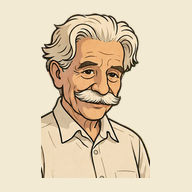
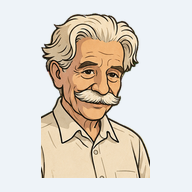
Design der Schul-Website: Blau-Palette, Systemschrift, Schullogo; keine Google Fonts mehr
Claude-Session: https://claude.ai/code/session_01DmqAZNMp6YNdaa44fsZYg1

diff --git a/public/style.css b/public/style.css
@@ -1,42 +1,40 @@
-/* Farben aus der Albert-Illustration: Hemd-Creme, Hosen-Braun, Tusche-Linien, Hautton */
 :root{
-  --bg:#f7f1e3; --card:#fffaf0; --ink:#2a2118; --mute:#6d5f4d;
-  --line:#2a2118; --acc:#6f573d; --on-acc:#fffaf0; --acc2:#eadfc3; --skin:#e0a674;
-  --shadow:#2a2118; --danger:#a63a22; --mark:#f3cf7a;
-  --font:'Fredoka','Nunito','Segoe UI',system-ui,-apple-system,sans-serif;
+  /* Farben der Schul-Website (Kadence-Palette): Blau #1f4e79, Hellblau #4f7ea8, Text #1f2933, Hintergrund #fafaf8 */
+  --bg:#fafaf8; --card:#ffffff; --ink:#1f2933; --mute:#5b6770;
+  --line:#d9e2ec; --acc:#1f4e79; --on-acc:#ffffff; --acc2:#eef3f8; --skin:#4f7ea8;
+  --shadow:rgba(31,78,121,.14); --danger:#b82105; --mark:#fdd79a; --amber:#f5a524;
+  --logo-filter:none; --head:#1f4e79;
+  --font:-apple-system,BlinkMacSystemFont,"Segoe UI",Roboto,Oxygen-Sans,Ubuntu,Cantarell,"Helvetica Neue",sans-serif;
 }
 @media (prefers-color-scheme:dark){:root{
-  --bg:#1e1913; --card:#2a2218; --ink:#f2ead3; --mute:#b9a98f;
-  --line:#6b5a44; --acc:#d9b98a; --on-acc:#2a2118; --acc2:#3a3022; --skin:#d29a66;
-  --shadow:#0d0a07; --danger:#f0a48f; --mark:#7a5f1f;
+  --bg:#0f1a24; --card:#172531; --ink:#e6edf3; --mute:#9fb0c0;
+  --line:#2a3d4f; --acc:#4f7ea8; --on-acc:#ffffff; --acc2:#1c2f40; --skin:#7fb0dc;
+  --shadow:rgba(0,0,0,.4); --danger:#ff9b85; --mark:#7a5a12; --logo-filter:brightness(0) invert(1); --head:#9cc3e8;
 }}
 *{box-sizing:border-box}
 body{margin:0;background:var(--bg);color:var(--ink);font:16px/1.45 var(--font)}
 input,textarea,button{font:inherit;color:inherit}
 
 /* Kopf */
-header{position:sticky;top:0;z-index:5;display:flex;gap:.7rem;align-items:center;padding:.55rem 1rem;background:var(--acc);color:var(--on-acc);border-bottom:3px solid var(--ink);flex-wrap:wrap}
-@media (prefers-color-scheme:dark){header{border-bottom-color:var(--line)}}
+header{position:sticky;top:0;z-index:5;display:flex;gap:.9rem;align-items:center;padding:.5rem 1rem;background:var(--card);border-bottom:1px solid var(--line);border-top:4px solid var(--acc);flex-wrap:wrap}
 .brand{display:flex;align-items:center;gap:.6rem;text-decoration:none;color:inherit}
-.brand img{width:46px;height:46px;border-radius:50%;background:var(--bg);border:2px solid var(--ink);object-fit:cover;object-position:50% 12%}
-.brand b{display:block;font-size:1.2rem;line-height:1.1}
-.brand small{display:block;font-size:.72rem;opacity:.85}
-#q{flex:1;min-width:180px;background:var(--card);color:var(--ink)}
-header button.primary{background:var(--card);color:var(--ink);border-color:var(--ink)}
+.brand img{height:54px;width:auto;filter:var(--logo-filter)}
+.brand b{display:block;font-size:1.15rem;line-height:1.1;font-style:italic;font-weight:600;color:var(--head)}
+.brand small{display:block;font-size:.72rem;color:var(--mute)}
+#q{flex:1;min-width:180px;background:var(--bg)}
 
-input,textarea{width:100%;padding:.55rem .75rem;border:2px solid var(--line);border-radius:12px;background:var(--card)}
+input,textarea{width:100%;padding:.55rem .75rem;border:1px solid var(--line);border-radius:10px;background:var(--card)}
 input:focus,textarea:focus,button:focus-visible,a:focus-visible{outline:3px solid var(--skin);outline-offset:1px}
-button{padding:.5rem .95rem;border:2px solid var(--line);border-radius:12px;background:var(--card);cursor:pointer;font-weight:500}
+button{padding:.5rem .95rem;border:1px solid var(--line);border-radius:10px;background:var(--card);cursor:pointer;font-weight:500}
 button:active{transform:translateY(1px)}
-button.primary{background:var(--acc);border-color:var(--ink);color:var(--on-acc);font-weight:600;box-shadow:2px 2px 0 var(--shadow)}
+button.primary{background:var(--acc);border-color:var(--acc);color:var(--on-acc);font-weight:600}
 button.danger{color:var(--danger);margin-right:auto}
-button.link{border:0;background:none;color:var(--acc);padding:.2rem .4rem;text-decoration:underline;text-underline-offset:3px}
+button.link{border:0;background:none;color:var(--head);padding:.2rem .4rem;text-decoration:underline;text-underline-offset:3px}
 
 /* Begrüßung mit Albert */
-.hero{position:relative;overflow:hidden;max-width:1100px;margin:1rem auto 0;border:2px solid var(--ink);border-radius:20px;background:var(--acc2);box-shadow:4px 4px 0 var(--shadow);min-height:130px;display:flex;align-items:center}
-@media (prefers-color-scheme:dark){.hero{border-color:var(--line)}}
+.hero{position:relative;overflow:hidden;max-width:1100px;margin:1rem auto 0;border:1px solid var(--line);border-left:5px solid var(--amber);border-radius:16px;background:var(--acc2);min-height:130px;display:flex;align-items:center}
 .hero-text{padding:1.1rem 1.3rem;max-width:calc(100% - 150px)}
-.hero h2{margin:0 0 .2rem;font-size:1.35rem}
+.hero h2{margin:0 0 .2rem;font-size:1.35rem;color:var(--head);font-style:italic}
 .hero p{margin:0;color:var(--mute)}
 .hero img{position:absolute;right:.8rem;bottom:-70px;height:200px;width:auto;pointer-events:none}
 @media (max-width:520px){.hero img{height:150px;bottom:-45px;right:0}.hero-text{max-width:calc(100% - 100px)}.hero h2{font-size:1.15rem}}
@@ -46,27 +44,27 @@ main{max-width:1100px;margin:0 auto;padding:1rem}
 .filters{display:grid;gap:.55rem;margin-bottom:1rem}
 .lbl{display:inline-block;min-width:3.8rem;color:var(--mute);font-size:.85rem}
 .chips{display:inline-flex;flex-wrap:wrap;gap:.4rem;vertical-align:middle}
-.chip{padding:.2rem .75rem;border-radius:99px;background:var(--card);border:2px solid var(--line);font-size:.9rem}
-.chip[aria-pressed=true]{background:var(--acc);color:var(--on-acc);border-color:var(--ink);box-shadow:2px 2px 0 var(--shadow)}
+.chip{padding:.2rem .75rem;border-radius:99px;background:var(--card);border:1px solid var(--line);font-size:.9rem}
+.chip[aria-pressed=true]{background:var(--acc);color:var(--on-acc);border-color:var(--acc)}
 .bar{display:flex;align-items:center;gap:.5rem;color:var(--mute);font-size:.9rem}
 .bar #count{margin-right:auto}
 
 .grid{display:grid;grid-template-columns:repeat(auto-fill,minmax(270px,1fr));gap:1.1rem}
-.card{background:var(--card);border:2px solid var(--line);border-radius:16px;padding:1rem;display:flex;flex-direction:column;gap:.5rem;box-shadow:4px 4px 0 var(--shadow);transition:transform .1s,box-shadow .1s}
-.card:hover{transform:translate(-1px,-1px);box-shadow:6px 6px 0 var(--shadow)}
-.card h3{margin:0;font-size:1.1rem}
+.card{background:var(--card);border:1px solid var(--line);border-top:4px solid var(--skin);border-radius:14px;padding:1rem;display:flex;flex-direction:column;gap:.5rem;box-shadow:0 1px 3px var(--shadow);transition:box-shadow .15s,transform .15s}
+.card:hover{transform:translateY(-2px);box-shadow:0 6px 16px var(--shadow)}
+.card h3{margin:0;font-size:1.1rem;color:var(--head)}
 .card p{margin:0;color:var(--mute);font-size:.92rem;flex:1}
 .meta{display:flex;gap:.35rem;flex-wrap:wrap}
 .tag{font-size:.78rem;padding:.1rem .55rem;border-radius:8px;background:var(--acc2)}
 .tag.s{background:var(--acc);color:var(--on-acc)}
 .by{font-size:.78rem;color:var(--mute)}
 .card .actions{display:flex;gap:.4rem;margin-top:.2rem}
-.card .actions a{flex:1;text-align:center;text-decoration:none;padding:.5rem;border-radius:12px;background:var(--acc);color:var(--on-acc);font-weight:600;border:2px solid var(--ink)}
+.card .actions a{flex:1;text-align:center;text-decoration:none;padding:.5rem;border-radius:10px;background:var(--acc);color:var(--on-acc);font-weight:600}
 mark{background:var(--mark);color:inherit;border-radius:3px}
 #empty{text-align:center;color:var(--mute);padding:2rem}
 
-dialog{border:2px solid var(--ink);border-radius:18px;background:var(--bg);color:var(--ink);width:min(480px,94vw);padding:1.2rem;box-shadow:6px 6px 0 var(--shadow)}
-dialog::backdrop{background:#2a211899}
+dialog{border:1px solid var(--line);border-radius:16px;background:var(--bg);color:var(--ink);width:min(480px,94vw);padding:1.2rem;box-shadow:0 12px 40px var(--shadow)}
+dialog::backdrop{background:#0f1a2499}
 dialog h2{margin-top:0}
 dialog label{display:block;margin:.6rem 0;font-size:.85rem;color:var(--mute)}
 dialog label input,dialog label textarea{margin-top:.2rem;color:var(--ink)}
@@ -74,6 +72,6 @@ dialog label input,dialog label textarea{margin-top:.2rem;color:var(--ink)}
 .actions{display:flex;gap:.5rem;justify-content:flex-end;margin-top:1rem}
 .hint{margin:.2rem 0;font-size:.8rem;color:var(--mute)}
 .err{color:var(--danger)}
-#qr{display:block;margin:0 auto 1rem;background:#fff;border:2px solid var(--ink);border-radius:12px;padding:6px}
+#qr{display:block;margin:0 auto 1rem;background:#fff;border:1px solid var(--line);border-radius:12px;padding:6px}
 #toast{position:fixed;bottom:1rem;left:50%;transform:translate(-50%,200%);opacity:0;pointer-events:none;background:var(--ink);color:var(--bg);padding:.6rem 1rem;border-radius:12px;transition:.25s;z-index:20}
 #toast.show{transform:translate(-50%,0);opacity:1}

diff --git a/public/index.html b/public/index.html
@@ -4,18 +4,15 @@
 <meta charset="utf-8">
 <meta name="viewport" content="width=device-width,initial-scale=1">
 <title>Alberts Lernapps</title>
-<meta name="theme-color" content="#6f573d">
+<meta name="theme-color" content="#1f4e79">
 <link rel="manifest" href="manifest.webmanifest">
 <link rel="icon" href="icon-192.png" type="image/png">
 <link rel="apple-touch-icon" href="icon-192.png">
-<link rel="preconnect" href="https://fonts.googleapis.com">
-<link rel="preconnect" href="https://fonts.gstatic.com" crossorigin>
-<link href="https://fonts.googleapis.com/css2?family=Fredoka:wght@400;500;600&display=swap" rel="stylesheet">
 <link rel="stylesheet" href="style.css">
 </head>
 <body>
 <header>
-  <a class="brand" href="./"><img src="albert-head.png" alt="" width="46" height="46"><span><b>Alberts Lernapps</b><small>Albert-Schweitzer-Schule Frankenthal</small></span></a>
+  <a class="brand" href="./"><img src="logo.png" alt="Albert-Schweitzer-Schule Frankenthal" height="54"><span><b>Alberts Lernapps</b></span></a>
   <input id="q" type="search" placeholder="Suchen: Titel, Fach, Thema …" autocomplete="off" aria-label="Suche">
   <button id="btnUpload" class="primary">＋ Hochladen</button>
 </header>

diff --git a/public/sw.js b/public/sw.js
@@ -1,5 +1,5 @@
 // Network-first für API & Apps, Cache-Fallback für die Oberfläche (offline nutzbar).
-const C='lernapps-v2',SHELL=['./','style.css','app.js','icon-192.png','albert-head.png','manifest.webmanifest'];
+const C='lernapps-v3',SHELL=['./','style.css','app.js','icon-192.png','albert-head.png','logo.png','manifest.webmanifest'];
 self.addEventListener('install',e=>{e.waitUntil(caches.open(C).then(c=>c.addAll(SHELL)));self.skipWaiting()});
 self.addEventListener('activate',e=>{e.waitUntil(caches.keys().then(k=>Promise.all(k.filter(x=>x!==C).map(x=>caches.delete(x)))));self.clients.claim()});
 self.addEventListener('fetch',e=>{
